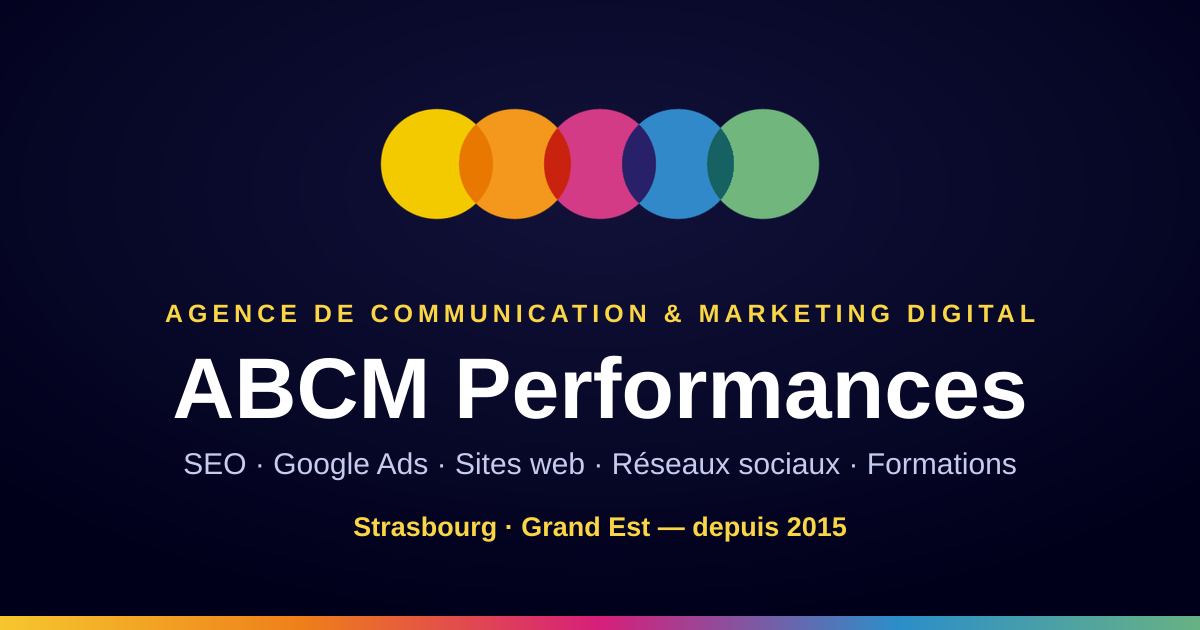
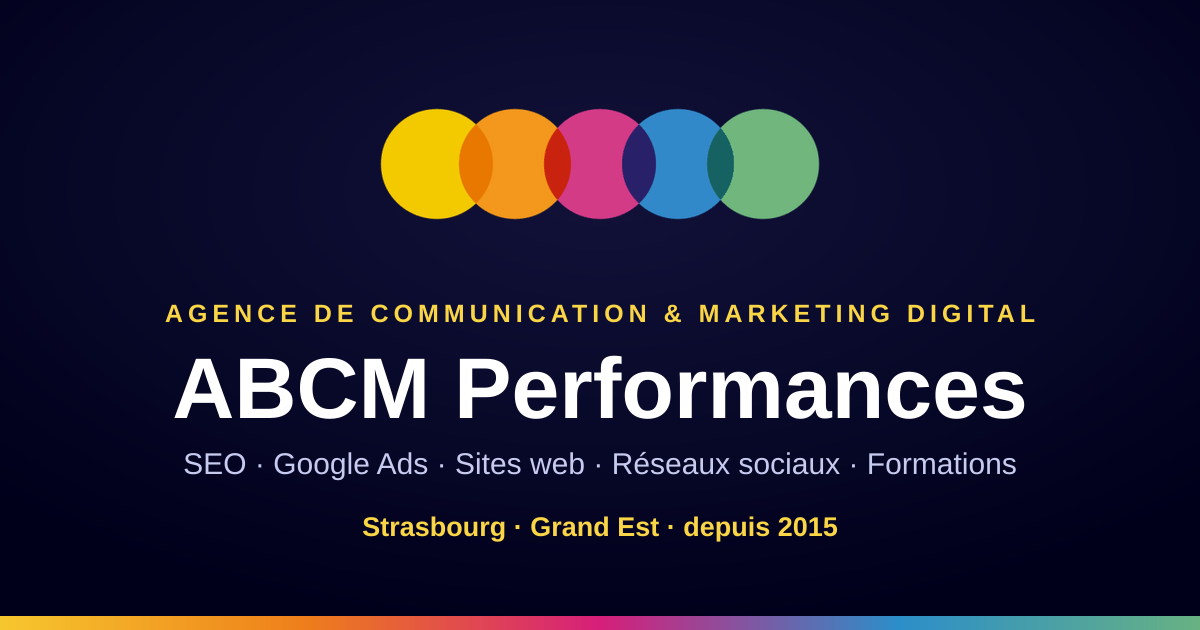
Contact : retour en haut à l'envoi, cartes de formation, objet mail, sans cadratins
1. Le formulaire remonte en haut à l'affichage du message de confirmation
   (scrollIntoView), pour que l'utilisateur voie bien la validation.
2. Nouveau sélecteur de formations : grille de cartes alignées et stylisées
   (état sélectionné en doré) avec un lien « Voir la fiche » vers chaque page
   formation, au lieu des anciens boutons ronds.
3. Suppression des tirets cadratins dans tout le texte visible (site, e-mails,
   image OpenGraph) ; les commentaires de code et le back-office sont inchangés.
4. Objet des e-mails : « Demande de contact ABCM - Message - NOM Prénom » et
   « Demande de contact ABCM - Formation - NOM Prénom ».

Claude-Session: https://claude.ai/code/session_01FUJ5D677kBPH6M1QCGBbEX

Changed region(s): [[0.2775, 0.8143, 0.7092, 0.8746]]

diff --git a/components/site/ContactWizard.jsx b/components/site/ContactWizard.jsx
@@ -33,9 +33,39 @@ function ConsentBlock({ checked, onChange, error }) {
       <p className="fmt-consent__note">
         Vos données ne servent qu'à répondre à votre demande et ne sont jamais
         cédées à des tiers. Vous disposez d'un droit d'accès, de rectification,
-        d'effacement et d'opposition — voir nos{" "}
+        d'effacement et d'opposition, détaillés dans nos{" "}
         <a href="/mentions-legales/">mentions légales &amp; RGPD</a>.
       </p>
+    </div>
+  );
+}
+
+/* Carte de sélection d'une formation : zone cochable + lien vers la fiche.
+   Le lien et le bouton de sélection sont deux éléments distincts pour que
+   « voir la fiche » n'entraîne pas la sélection. */
+function FormationCard({ name, label, url, selected, onToggle }) {
+  return (
+    <div className={cx("fmt-fcard", selected && "is-sel")}>
+      <button
+        type="button"
+        className="fmt-fcard__toggle"
+        aria-pressed={selected}
+        onClick={onToggle}
+      >
+        <span className="fmt-fcard__check" aria-hidden="true"><Icon name="check" size={14} /></span>
+        <span className="fmt-fcard__name">{label || name}</span>
+      </button>
+      {url && (
+        <a
+          className="fmt-fcard__link"
+          href={url}
+          target="_blank"
+          rel="noreferrer"
+          onClick={(e) => e.stopPropagation()}
+        >
+          Voir la fiche <Icon name="arrow-up-right" size={13} />
+        </a>
+      )}
     </div>
   );
 }
@@ -68,6 +98,15 @@ export function ContactWizard() {
   const [sendError, setSendError] = React.useState("");
   const [data, setData] = React.useState(EMPTY);
   const [errors, setErrors] = React.useState({});
+  const topRef = React.useRef(null);
+
+  // À l'affichage du message de confirmation, on ramène l'utilisateur en haut
+  // du formulaire (sinon il reste en bas de page et ne voit pas la validation).
+  React.useEffect(() => {
+    if (sent && topRef.current) {
+      topRef.current.scrollIntoView({ behavior: "smooth", block: "start" });
+    }
+  }, [sent]);
 
   const set = (k) => (e) => setData((d) => ({ ...d, [k]: e.target.value }));
   const go = (next, d = "fwd") => { setDir(d); setStep(next); };
@@ -125,7 +164,7 @@ export function ContactWizard() {
   const reset = () => { setData(EMPTY); setErrors({}); setSent(false); setSendError(""); go(0, "back"); };
 
   return (
-    <div className="fmt-wiz">
+    <div className="fmt-wiz" ref={topRef} style={{ scrollMarginTop: "5rem" }}>
       {/* Progression */}
       <ol className="fmt-wiz__steps" aria-hidden={sent}>
         {STEPS.map((s, i) => (
@@ -231,34 +270,28 @@ export function ContactWizard() {
                     {formationsBySilo().map(({ silo, items }) => (
                       <div className="fmt-pick__group" key={silo.id}>
                         <span className="fmt-pick__group-label">{silo.emoji} {silo.label}</span>
-                        <div className="fmt-pick__chips">
-                          {items.map((f) => {
-                            const on = data.formations.includes(f.name);
-                            return (
-                              <button
-                                type="button" key={f.slug} aria-pressed={on}
-                                className={cx("fmt-pick__chip", on && "is-sel")}
-                                onClick={() => toggleFormation(f.name)}
-                              >
-                                <span className="fmt-pick__check" aria-hidden="true"><Icon name="check" size={13} /></span>
-                                {f.name}
-                              </button>
-                            );
-                          })}
+                        <div className="fmt-fcards">
+                          {items.map((f) => (
+                            <FormationCard
+                              key={f.slug}
+                              name={f.name}
+                              url={f.url}
+                              selected={data.formations.includes(f.name)}
+                              onToggle={() => toggleFormation(f.name)}
+                            />
+                          ))}
                         </div>
                       </div>
                     ))}
                     <div className="fmt-pick__group">
                       <span className="fmt-pick__group-label">Autre</span>
-                      <div className="fmt-pick__chips">
-                        <button
-                          type="button" aria-pressed={data.formations.includes("Autre / sur-mesure")}
-                          className={cx("fmt-pick__chip", data.formations.includes("Autre / sur-mesure") && "is-sel")}
-                          onClick={() => toggleFormation("Autre / sur-mesure")}
-                        >
-                          <span className="fmt-pick__check" aria-hidden="true"><Icon name="check" size={13} /></span>
-                          Autre / formation sur-mesure
-                        </button>
+                      <div className="fmt-fcards">
+                        <FormationCard
+                          name="Autre / sur-mesure"
+                          label="Autre / formation sur-mesure"
+                          selected={data.formations.includes("Autre / sur-mesure")}
+                          onToggle={() => toggleFormation("Autre / sur-mesure")}
+                        />
                       </div>
                     </div>
                     {errors.formations && <span className="fmt-field__error">{errors.formations}</span>}

diff --git a/lib/contact-email.ts b/lib/contact-email.ts
@@ -42,7 +42,7 @@ const MODALITE_LABELS: Record<string, string> = {
 };
 
 const FORMAT_LABELS: Record<string, string> = {
-  intra: "Intra — équipe du client",
+  intra: "Intra (équipe du client)",
   inter: "Inter / individuel",
 };
 
@@ -67,10 +67,10 @@ function contactRows(p: ContactPayload): string {
   const mailLink = `<a href="mailto:${esc(p.email)}" style="color:${BRAND};text-decoration:none;">${esc(p.email)}</a>`;
   const telLink = p.telephone
     ? `<a href="tel:${esc(p.telephone)}" style="color:${BRAND};text-decoration:none;">${esc(p.telephone)}</a>`
-    : `<span style="color:${MUTED};">—</span>`;
+    : `<span style="color:${MUTED};">Non précisé</span>`;
   return (
     row("Nom", `<strong>${fullName}</strong>`) +
-    row("Entreprise", p.entreprise ? esc(p.entreprise) : `<span style="color:${MUTED};">—</span>`) +
+    row("Entreprise", p.entreprise ? esc(p.entreprise) : `<span style="color:${MUTED};">Non précisé</span>`) +
     row("E-mail", mailLink) +
     row("Téléphone", telLink)
   );
@@ -106,7 +106,7 @@ function wrap(opts: { badge: string; title: string; inner: string; preheader: st
           <td style="background:${INK};padding:22px 28px;">
             <span style="display:inline-block;background:${BRAND};color:#fff;font-size:11px;font-weight:700;letter-spacing:.08em;text-transform:uppercase;padding:5px 10px;border-radius:6px;">${esc(opts.badge)}</span>
             <div style="color:#ffffff;font-size:19px;font-weight:700;margin-top:12px;">${esc(opts.title)}</div>
-            <div style="color:#9ca3af;font-size:13px;margin-top:2px;">Formulaire de contact — abcmperformances.com</div>
+            <div style="color:#9ca3af;font-size:13px;margin-top:2px;">Formulaire de contact · abcmperformances.com</div>
           </td>
         </tr>
         <tr><td style="padding:24px 28px 8px;">
@@ -138,7 +138,7 @@ function renseignementHtml(p: ContactPayload): string {
   return wrap({
     badge: "Renseignement",
     title: `Nouvelle demande de ${p.prenom} ${p.nom}`.trim(),
-    preheader: `Renseignement — ${p.prenom} ${p.nom} (${p.email})`,
+    preheader: `Renseignement · ${p.prenom} ${p.nom} (${p.email})`,
     inner: contactRows(p) + messageBlock,
     consent: p.consent,
   });
@@ -150,12 +150,12 @@ function formationHtml(p: ContactPayload): string {
     ? `<ul style="margin:0;padding-left:18px;color:${INK};font-size:15px;line-height:1.7;">${p.formations
         .map((f) => `<li>${esc(f)}</li>`)
         .join("")}</ul>`
-    : `<span style="color:${MUTED};">—</span>`;
+    : `<span style="color:${MUTED};">Non précisé</span>`;
 
-  const modalite = p.modalite ? esc(MODALITE_LABELS[p.modalite] ?? p.modalite) : `<span style="color:${MUTED};">—</span>`;
-  const format = p.format ? esc(FORMAT_LABELS[p.format] ?? p.format) : `<span style="color:${MUTED};">—</span>`;
-  const participants = p.participants ? esc(p.participants) : `<span style="color:${MUTED};">—</span>`;
-  const periode = p.periode ? esc(p.periode) : `<span style="color:${MUTED};">—</span>`;
+  const modalite = p.modalite ? esc(MODALITE_LABELS[p.modalite] ?? p.modalite) : `<span style="color:${MUTED};">Non précisé</span>`;
+  const format = p.format ? esc(FORMAT_LABELS[p.format] ?? p.format) : `<span style="color:${MUTED};">Non précisé</span>`;
+  const participants = p.participants ? esc(p.participants) : `<span style="color:${MUTED};">Non précisé</span>`;
+  const periode = p.periode ? esc(p.periode) : `<span style="color:${MUTED};">Non précisé</span>`;
 
   const precisionsBlock = p.precisions
     ? `
@@ -169,8 +169,8 @@ function formationHtml(p: ContactPayload): string {
 
   return wrap({
     badge: "Formation",
-    title: `Projet de formation — ${p.prenom} ${p.nom}`.trim(),
-    preheader: `Formation — ${p.prenom} ${p.nom} (${p.email})`,
+    title: `Projet de formation · ${p.prenom} ${p.nom}`.trim(),
+    preheader: `Formation · ${p.prenom} ${p.nom} (${p.email})`,
     inner:
       contactRows(p) +
       row("Formation(s)", formations) +
@@ -194,15 +194,15 @@ function textVersion(p: ContactPayload): string {
   if (p.telephone) L.push(`Téléphone  : ${p.telephone}`);
   L.push("");
   if (p.motif === "formation") {
-    L.push(`Formation(s) : ${(p.formations && p.formations.length) ? p.formations.join(", ") : "—"}`);
-    L.push(`Modalité     : ${p.modalite ? (MODALITE_LABELS[p.modalite] ?? p.modalite) : "—"}`);
-    L.push(`Format       : ${p.format ? (FORMAT_LABELS[p.format] ?? p.format) : "—"}`);
-    L.push(`Participants : ${p.participants || "—"}`);
-    L.push(`Période      : ${p.periode || "—"}`);
+    L.push(`Formation(s) : ${(p.formations && p.formations.length) ? p.formations.join(", ") : "Non précisé"}`);
+    L.push(`Modalité     : ${p.modalite ? (MODALITE_LABELS[p.modalite] ?? p.modalite) : "Non précisé"}`);
+    L.push(`Format       : ${p.format ? (FORMAT_LABELS[p.format] ?? p.format) : "Non précisé"}`);
+    L.push(`Participants : ${p.participants || "Non précisé"}`);
+    L.push(`Période      : ${p.periode || "Non précisé"}`);
     if (p.precisions) { L.push(""); L.push("Précisions :"); L.push(p.precisions); }
   } else {
     L.push("Message :");
-    L.push(p.message || "—");
+    L.push(p.message || "Non précisé");
   }
   if (p.consent) {
     L.push("");
@@ -213,10 +213,10 @@ function textVersion(p: ContactPayload): string {
 
 /** Construit le sujet + les corps HTML et texte de l'e-mail à envoyer à ABCM. */
 export function buildContactEmail(p: ContactPayload): { subject: string; html: string; text: string } {
-  const who = `${p.prenom} ${p.nom}`.trim() || p.email;
+  // Nom au format « NOM Prénom » (convention FR : patronyme en majuscules).
+  const person = [p.nom.toUpperCase(), p.prenom].filter(Boolean).join(" ").trim() || p.email;
   if (p.motif === "formation") {
-    const first = p.formations && p.formations.length ? ` · ${p.formations[0]}${p.formations.length > 1 ? ` (+${p.formations.length - 1})` : ""}` : "";
-    return { subject: `🎓 Formation — ${who}${first}`, html: formationHtml(p), text: textVersion(p) };
+    return { subject: `Demande de contact ABCM - Formation - ${person}`, html: formationHtml(p), text: textVersion(p) };
   }
-  return { subject: `✉️ Renseignement — ${who}`, html: renseignementHtml(p), text: textVersion(p) };
+  return { subject: `Demande de contact ABCM - Message - ${person}`, html: renseignementHtml(p), text: textVersion(p) };
 }

diff --git a/app/(app)/site.css b/app/(app)/site.css
@@ -608,12 +608,18 @@
 .fmt-pick__hint { font-family: var(--font-mono); font-size: var(--text-2xs); font-weight: 400; text-transform: none; letter-spacing: 0; color: var(--text-subtle); margin-left: var(--space-2); }
 .fmt-pick__group + .fmt-pick__group { margin-top: var(--space-3); }
 .fmt-pick__group-label { display: block; font-family: var(--font-mono); font-size: var(--text-2xs); text-transform: uppercase; letter-spacing: 0.08em; color: var(--text-muted); margin-bottom: var(--space-2); }
-.fmt-pick__chips { display: flex; flex-wrap: wrap; gap: var(--space-2); }
-.fmt-pick__chip { display: inline-flex; align-items: center; gap: 0.45em; padding: 0.5em 0.9em; border-radius: var(--radius-pill); border: 1.5px solid var(--border); background: var(--surface); font-size: var(--text-sm); color: var(--text); cursor: pointer; text-align: left; transition: all var(--dur-base) var(--ease-out); }
-.fmt-pick__chip:hover { border-color: var(--accent-400); background: var(--accent-50); }
-.fmt-pick__check { display: inline-flex; width: 1.2em; height: 1.2em; align-items: center; justify-content: center; border-radius: 50%; border: 1.5px solid var(--border-strong); color: transparent; flex: none; transition: all var(--dur-base) var(--ease-out); }
-.fmt-pick__chip.is-sel { border-color: var(--accent-500); background: var(--accent-100); font-weight: 600; }
-.fmt-pick__chip.is-sel .fmt-pick__check { background: var(--accent-400); border-color: var(--accent-400); color: var(--night); }
+
+/* Cartes de formation (grille alignée, cases stylisées + lien vers la fiche) */
+.fmt-fcards { display: grid; grid-template-columns: repeat(auto-fill, minmax(230px, 1fr)); gap: var(--space-3); }
+.fmt-fcard { position: relative; display: flex; flex-direction: column; border: 1.5px solid var(--border); border-radius: var(--radius-lg); background: var(--surface); overflow: hidden; transition: border-color var(--dur-base) var(--ease-out), box-shadow var(--dur-base) var(--ease-out), background var(--dur-base) var(--ease-out); }
+.fmt-fcard:hover { border-color: var(--accent-400); box-shadow: var(--shadow-sm); }
+.fmt-fcard.is-sel { border-color: var(--accent-500); background: var(--accent-50); box-shadow: 0 0 0 1px var(--accent-500) inset; }
+.fmt-fcard__toggle { display: flex; align-items: flex-start; gap: var(--space-2); padding: var(--space-3) var(--space-3) var(--space-2); background: none; border: 0; cursor: pointer; text-align: left; font: inherit; color: var(--text); width: 100%; }
+.fmt-fcard__check { display: inline-flex; width: 1.35em; height: 1.35em; align-items: center; justify-content: center; border-radius: var(--radius-sm); border: 1.5px solid var(--border-strong); color: transparent; flex: none; margin-top: 0.05em; transition: all var(--dur-base) var(--ease-out); }
+.fmt-fcard.is-sel .fmt-fcard__check { background: var(--accent-400); border-color: var(--accent-400); color: var(--night); }
+.fmt-fcard__name { font-family: var(--font-display); font-weight: 600; font-size: var(--text-sm); line-height: 1.35; }
+.fmt-fcard__link { display: inline-flex; align-items: center; gap: 0.3em; align-self: flex-start; margin: 0 var(--space-3) var(--space-3) calc(var(--space-3) + 1.35em + var(--space-2)); font-family: var(--font-mono); font-size: var(--text-2xs); text-transform: uppercase; letter-spacing: 0.05em; color: var(--text-muted); text-decoration: none; transition: color var(--dur-base) var(--ease-out); }
+.fmt-fcard__link:hover { color: var(--accent-600, var(--accent-500)); }
 
 /* Encart d'info */
 .fmt-wiz__note { display: flex; align-items: flex-start; gap: var(--space-2); font-size: var(--text-sm); color: var(--text-muted); background: var(--info-soft); border-radius: var(--radius-md); padding: var(--space-3) var(--space-4); margin: 0; }

diff --git a/app/(app)/layout.jsx b/app/(app)/layout.jsx
@@ -26,7 +26,7 @@ export const metadata = {
         url: "/og-default.png",
         width: 1200,
         height: 630,
-        alt: "ABCM Performances — agence de communication & marketing digital à Strasbourg",
+        alt: "ABCM Performances, agence de communication & marketing digital à Strasbourg",
       },
     ],
   },

diff --git a/app/(app)/llms.txt/route.js b/app/(app)/llms.txt/route.js
@@ -46,7 +46,7 @@ function build() {
     "> Agence de communication & marketing digital à Strasbourg (Grand Est), " +
       "depuis 2015. Nous accompagnons TPE, PME et institutions sur la création " +
       "de site web, le référencement (SEO & GEO/IA), la publicité en ligne, les " +
-      "réseaux sociaux et la stratégie digitale — et formons les équipes " +
+      "réseaux sociaux et la stratégie digitale, et formons les équipes " +
       "(organisme certifié Qualiopi, financement OPCO possible).",
   );
   parts.push("");

diff --git a/components/site/AgencyMapCanvas.jsx b/components/site/AgencyMapCanvas.jsx
@@ -12,7 +12,7 @@ import { ABCM_INFO } from "@/data/formations";
 // minimum requis par la politique d'usage des tuiles OSM.
 const LAT = ABCM_INFO.latitude;
 const LON = ABCM_INFO.longitude;
-const LABEL = `${ABCM_INFO.name} — ${ABCM_INFO.street}, ${ABCM_INFO.postalCode} ${ABCM_INFO.city}`;
+const LABEL = `${ABCM_INFO.name}, ${ABCM_INFO.street}, ${ABCM_INFO.postalCode} ${ABCM_INFO.city}`;
 
 export function AgencyMapCanvas() {
   const holder = useRef(null);

diff --git a/components/site/Team.jsx b/components/site/Team.jsx
@@ -38,7 +38,7 @@ export function Team() {
         <div className="team-acc" data-reveal>
           {MEMBERS.map((m) => (
             <article className="ta ta--person" key={m.title} style={{ "--_hue": `var(--logo-${m.hue})` }}>
-              <img className="ta__bg" src={assetPath(m.photo)} alt={`${m.title} — ${m.role}`} loading="lazy" />
+              <img className="ta__bg" src={assetPath(m.photo)} alt={`${m.title}, ${m.role}`} loading="lazy" />
               <span className="ta__tint" aria-hidden="true" />
               <span className="ta__vlabel">{m.title}</span>
               <div className="ta__reveal">

diff --git a/data/formations.js b/data/formations.js
@@ -618,7 +618,7 @@ export const FORMATIONS = [
     cardDesc: "Créez et optimisez des campagnes Google Ads rentables.",
     title: "Formation Google Ads à Strasbourg",
     metaDescription: "Formation Google Ads à Strasbourg et en visio : créez, pilotez et optimisez vos campagnes Search, Display et remarketing. ROI mesuré. Qualiopi, financement OPCO.",
-    lead: "La régie publicitaire de Google couvre bien plus que la recherche. Cette formation approfondie, sur 2 jours, vous fait exploiter tout l'écosystème Google Ads — Search, Display, YouTube, Shopping et Performance Max — pour générer un trafic ciblé et rentable.",
+    lead: "La régie publicitaire de Google couvre bien plus que la recherche. Cette formation approfondie, sur 2 jours, vous fait exploiter tout l'écosystème Google Ads (Search, Display, YouTube, Shopping et Performance Max) pour générer un trafic ciblé et rentable.",
     objectifs: [
       "Exploiter tout l'écosystème Google Ads : Search, Display, YouTube, Shopping et Performance Max",
       "Mettre en place un suivi des conversions et une attribution fiables",